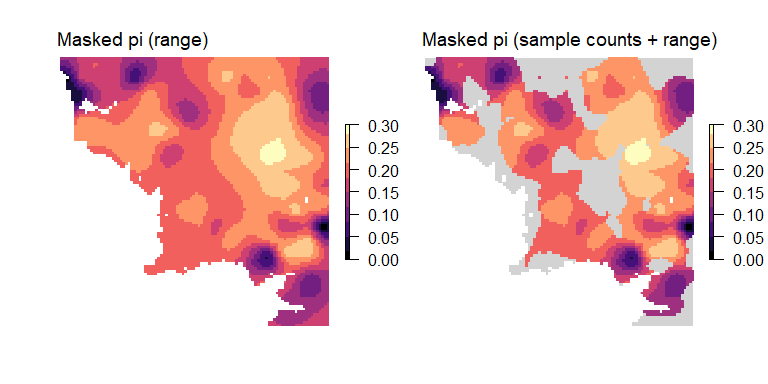
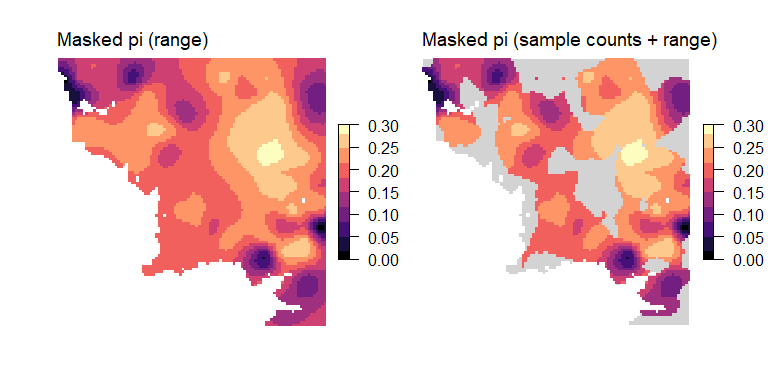
Update README

diff --git a/README.md b/README.md
@@ -58,8 +58,8 @@ wgd <- window_gd(lotr_vcf,
 
 # Use plot_gd() to plot the genetic diversity layer and plot_count() to plot the sample counts layer
 par(mfrow = c(1,2), oma = rep(1,4), mar = rep(2,4))
-plot_gd(wgd, bkg = lotr_range, main = "Moving window pi")
-plot_count(wgd, main = "Moving window sample counts")
+plot_gd(wgd, bkg = lotr_range, main = "Moving window pi", legend.width = 1.5)
+plot_count(wgd, main = "Moving window sample counts", legend.width = 1.5)
 ```
 
 <img src="man/figures/README-window_gd-1.png" width="100%" />
@@ -73,8 +73,8 @@ kgd <- krig_gd(wgd[["pi"]], lotr_lyr)
 kgd_counts <- krig_gd(wgd[["sample_count"]], lotr_lyr)
 
 par(mfrow = c(1,2), oma = rep(1,4), mar = rep(2,4))
-plot_gd(kgd, main = "Kriged pi")
-plot_count(kgd_counts, main = "Kriged sample counts")
+plot_gd(kgd, main = "Kriged pi", legend.width = 1.5)
+plot_count(kgd_counts, main = "Kriged sample counts", legend.width = 1.5)
 ```
 
 <img src="man/figures/README-krig_gd-1.png" width="100%" />
@@ -94,8 +94,8 @@ mgd_counts <- mask_gd(mgd_lyr, kgd_counts, minval = 2)
 ``` r
 # Plot results
 par(mfrow = c(1,2), oma = rep(1,4), mar = rep(2,4))
-plot_gd(mgd_lyr, main = "Masked pi (range)")
-plot_gd(mgd_counts, bkg = lotr_range, main = "Masked pi (sample counts + range)")
+plot_gd(mgd_lyr, main = "Masked pi (range)", legend.width = 1.5)
+plot_gd(mgd_counts, bkg = lotr_range, main = "Masked pi (sample counts + range)", legend.width = 1.5)
 ```
 
 <img src="man/figures/README-result-1.png" width="100%" />
